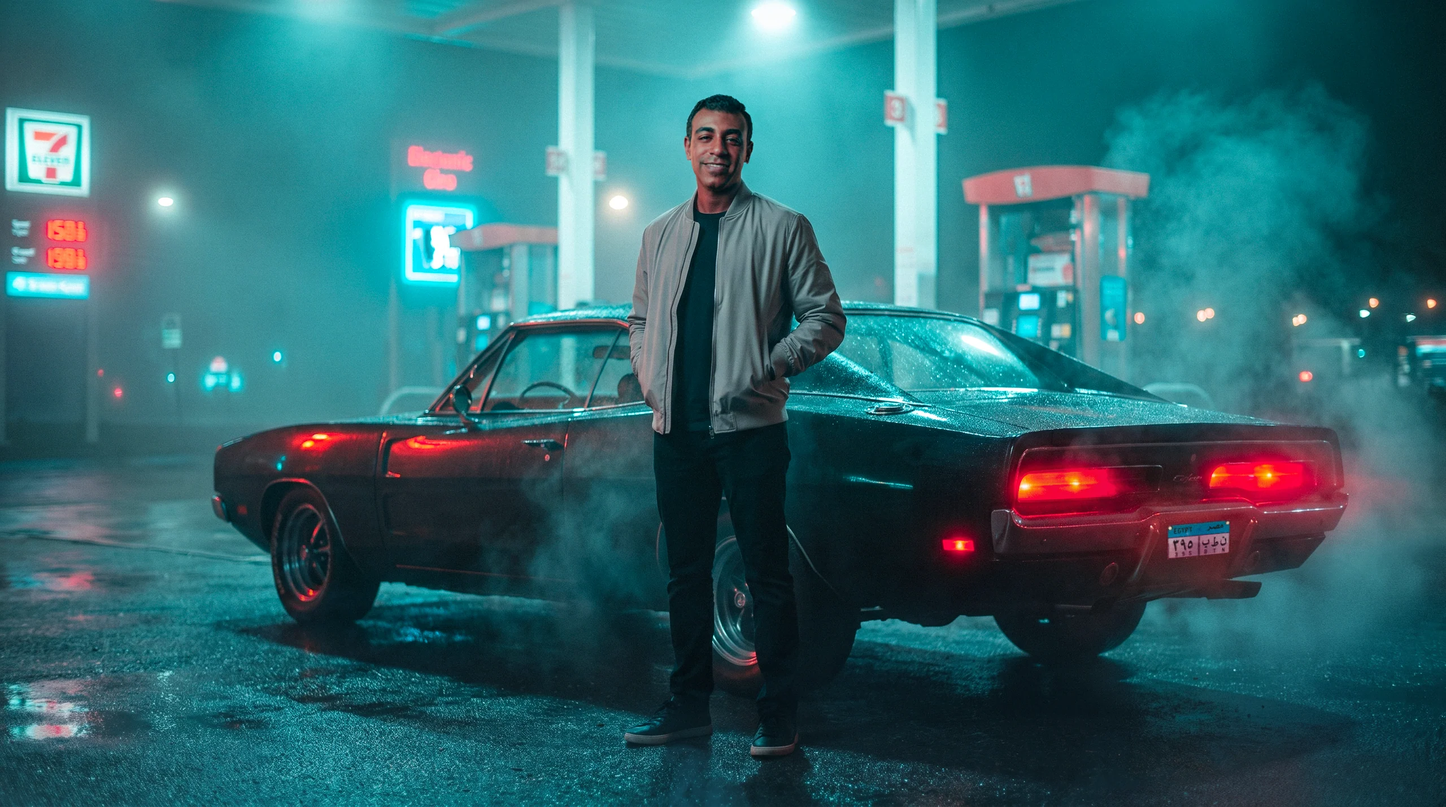
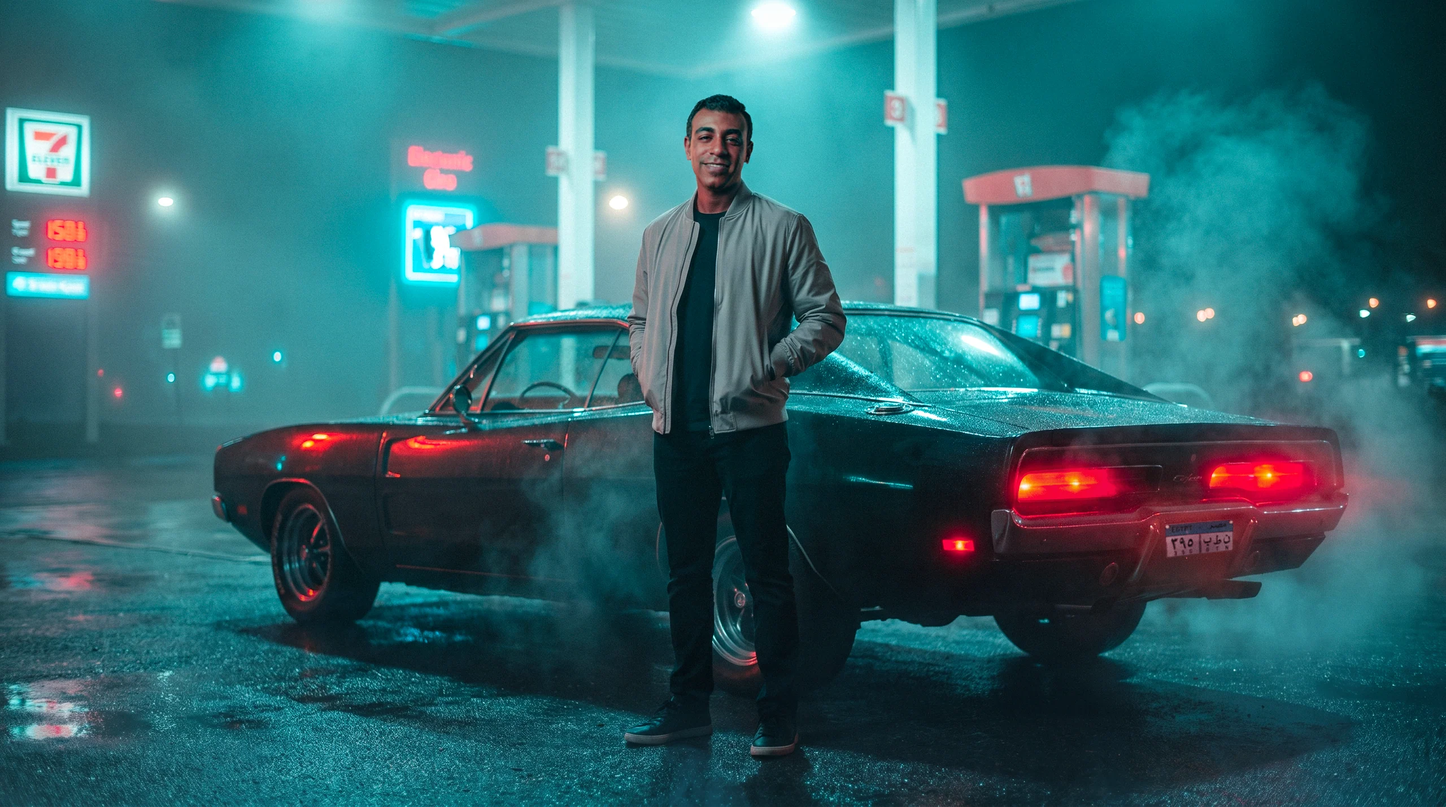
Back to dark only, in cyan and red, blended dynamically
The two accents are taken straight from the photograph the site opens
on: the teal haze of the forecourt and the red of the tail lights.

Picking them was the work. Matched in OKLCH at equal lightness and
chroma they harmonise perfectly and the red lands on salmon (#FB8D85) --
technically a pair, not what anyone means by red. So the red keeps its
saturation and gives up a little lightness instead: cyan #19C8DE at
9.57:1 on the ground, red #FF3B4E at 5.53:1. Neither takes white text,
so filled accent buttons use ink (9.57 and 5.53); the two that used
white have been changed.

Near-complementary is a loud pair by default, so three things hold them
together. The neutrals carry the cyan's cast, so the cyan reads as
native to the page and the red as the accent that pops. The ramp
lightens as it climbs, which is what a raised surface does on a dark
ground -- the inverse of what the light theme needed. And the two are
blended through magenta wherever they meet.

That blend is the dynamic part: .blend-field puts two soft blobs, one
per accent, drifting on different periods and screened over each other,
so the overlap runs through magenta and never sits still. The blobs are
pseudo-elements of one wrapper -- no extra DOM -- and only transform is
animated, so it stays on the compositor and off the main thread. It runs
in the closing CTA, on /contact and in the contact modal, each of which
previously had a single flat blur that never moved. .text-blend runs the
[…]

Changed region(s): [[0.7812, 0.8929, 1.0, 1.0], [0.7812, 0.6466, 0.875, 0.7082], [0.9062, 0.739, 0.9688, 0.8006]]

diff --git a/app/globals.css b/app/globals.css
@@ -2,38 +2,35 @@
 @tailwind components;
 @tailwind utilities;
 
-/* ---- One theme: cool paper, deep cyan, magenta second ----------------------
-   The site used to ship a dark theme as the default and a light one behind a
-   toggle. It is light-only now, so these live on :root with nothing to switch.
+/* ---- One theme: cool near-black, cyan and red ------------------------------
+   Dark only. There is no light theme and no toggle.
 
-   Two things were wrong with the old light values and both are fixed here.
-   The page sat at a glaring near-white, so it is pulled down to a cool paper
-   tone with a cyan cast that ties it to the accent. And --bg2 used to be
-   *lighter* than --bg, which is right for a raised panel on a dark ground and
-   backwards on a light one: every banded section washed out into the page and
-   the sections read as one run-on block. The ramp now darkens as it climbs, so
-   a band is a band.
+   The two accents are the photograph the site opens on: the teal haze of the
+   forecourt and the red of the tail lights. They are near-complementary, which
+   is a loud pair by default, so three things hold them together -- the neutrals
+   carry the cyan's cast so the cyan reads as native and the red as the accent
+   that pops; the ramp lightens as it climbs, which is what a raised surface
+   does on a dark ground; and the two are blended through magenta wherever they
+   meet (see .blend-field and .text-blend below) so the eye reads one system
+   rather than two colours arguing.
 
-   Accents are contrast-checked against --bg: cyan 5.43:1, magenta 5.63:1, and
-   white on either as a filled button is ~6:1. */
+   Measured on --bg: cyan 9.57:1, red 5.53:1. Both take near-black text as a
+   filled button (9.57 and 5.53); neither takes white, so buttons use ink. */
 :root {
-  --bg: 242 245 246;
-  --bg2: 231 237 239;
-  --bg3: 219 227 230;
-  --bg4: 201 212 216;
-  --bg5: 176 190 196;
-  --fg: 13 27 32;
-  --fg2: 45 63 69;
-  --fg3: 92 110 117;
-  --fg4: 116 133 140;
-  --line: 13 27 32;
-  --electric: 183 24 118; /* magenta, the second voice */
-  --mint: 5 110 124; /* deep cyan (primary accent) */
-  /* The accent is tuned to hold against paper, which makes it far too dark to
-     use over a photograph -- and the hero happens to be a teal night shot, so
-     the accent word vanished into it. This is the same hue lifted for type on
-     imagery: 8.6:1 against the darkest part of that frame. */
-  --mint-lift: 116 226 240;
+  --bg: 8 14 18;
+  --bg2: 14 23 28;
+  --bg3: 21 33 40;
+  --bg4: 32 48 57;
+  --bg5: 50 70 81;
+  --fg: 232 241 244;
+  --fg2: 186 203 210;
+  --fg3: 133 154 163;
+  --fg4: 100 120 129;
+  --line: 232 241 244;
+  --electric: 255 59 78; /* red, the second voice */
+  --mint: 25 200 222; /* cyan (primary accent) */
+  /* A touch brighter, for type sitting directly on the photography. */
+  --mint-lift: 86 226 245;
 }
 
 * {
@@ -196,6 +193,64 @@ main > * + * {
 }
 
 @layer utilities {
+  /* The dynamic blend. Two soft blobs -- one cyan, one red -- drifting on
+     different periods and screened over each other, so the overlap runs through
+     magenta and never sits still. Only transform is animated and there are two
+     elements per field, so this stays on the compositor.
+
+     The blobs are pseudo-elements of a single wrapper: no extra DOM, and any
+     section can pick it up by adding the class to a positioned backdrop. */
+  .blend-field {
+    position: absolute;
+    inset: 0;
+    overflow: hidden;
+    pointer-events: none;
+    isolation: isolate;
+  }
+  .blend-field::before,
+  .blend-field::after {
+    content: "";
+    position: absolute;
+    width: 55vw;
+    height: 55vw;
+    max-width: 780px;
+    max-height: 780px;
+    border-radius: 9999px;
+    filter: blur(110px);
+    mix-blend-mode: screen;
+    will-change: transform;
+  }
+  .blend-field::before {
+    left: -12%;
+    top: -22%;
+    background: rgb(var(--mint) / 0.4);
+    animation: driftA 26s ease-in-out infinite alternate;
+  }
+  .blend-field::after {
+    right: -14%;
+    bottom: -26%;
+    background: rgb(var(--electric) / 0.32);
+    animation: driftB 34s ease-in-out infinite alternate;
+  }
+  @media (prefers-reduced-motion: reduce) {
+    .blend-field::before,
+    .blend-field::after {
+      animation: none;
+    }
+  }
+
+  /* The same blend, run through type. */
+  .text-blend {
+    background-image: linear-gradient(
+      100deg,
+      rgb(var(--mint)),
+      rgb(var(--electric))
+    );
+    -webkit-background-clip: text;
+    background-clip: text;
+    color: transparent;
+  }
+
   .text-balance {
     text-wrap: balance;
   }
@@ -211,6 +266,23 @@ main > * + * {
       ),
       linear-gradient(to bottom, rgb(var(--line) / 0.07) 1px, transparent 1px);
     background-size: 56px 56px;
+  }
+}
+
+@keyframes driftA {
+  from {
+    transform: translate3d(0, 0, 0) scale(1);
+  }
+  to {
+    transform: translate3d(22vw, 16vh, 0) scale(1.25);
+  }
+}
+@keyframes driftB {
+  from {
+    transform: translate3d(0, 0, 0) scale(1.15);
+  }
+  to {
+    transform: translate3d(-20vw, -14vh, 0) scale(0.9);
   }
 }
 

diff --git a/components/HireCta.tsx b/components/HireCta.tsx
@@ -15,12 +15,9 @@ export default function HireCta() {
       className="container-edge mx-auto max-w-edge scroll-mt-24 section-y"
     >
       <div className="relative overflow-hidden rounded-3xl border border-line/10 bg-ink-800 px-7 py-16 text-center md:px-16 md:py-24">
-        <div
-          aria-hidden
-          className="pointer-events-none absolute left-1/2 top-0 -z-0 h-[30rem] w-[46rem] -translate-x-1/2 -translate-y-1/2 rounded-full bg-mint/10 blur-[120px]"
-        />
+        <div aria-hidden className="blend-field -z-0 opacity-70" />
 
-        <Reveal>
+        <Reveal className="relative">
           <p className="flex items-center justify-center gap-2 text-xs uppercase tracking-[0.28em] text-bone-400">
             <span className="relative flex h-2 w-2">
               <span className="absolute inline-flex h-full w-full animate-ping rounded-full bg-mint opacity-70" />
@@ -33,7 +30,7 @@ export default function HireCta() {
         <Reveal delay={0.05}>
           <h2 className="mx-auto mt-8 max-w-3xl text-balance text-4xl font-semibold leading-[1.05] tracking-tight text-bone-50 md:text-6xl">
             {t.hire.h2a}{" "}
-            <span className="font-serif font-normal italic text-mint">
+            <span className="text-blend font-serif font-normal italic">
               {t.hire.h2i}
             </span>
             {t.hire.h2b}

diff --git a/components/TypeDesign.tsx b/components/TypeDesign.tsx
@@ -18,9 +18,10 @@ import { useLang } from "@/lib/i18n";
 // white for dark mode, black for light — so the letterforms sit straight on
 // the page with no tile behind them.
 //
-// Only the light cuts are on the page now that the dark theme is gone. The
-// dark cuts stay in the repo because the lightbox opens on a near-black scrim,
-// where the white artwork is the one that reads.
+// The white cuts are what the page shows: dark ground, and the lightbox opens
+// on a near-black scrim, so the same artwork serves both. The black cuts stay in
+// the repo -- 08's was derived from its own artwork rather than supplied, and
+// they cost nothing to keep.
 const pieces = Array.from({ length: 8 }, (_, i) => {
   const id = String(i + 1).padStart(2, "0");
   return {
@@ -56,7 +57,7 @@ function Piece({
       <span className="absolute inset-0 block p-5 sm:p-7">
         <span className="relative block h-full w-full">
           <Media
-            src={piece.light}
+            src={piece.dark}
             alt={`${label} ${index + 1}`}
             fill
             sizes="288px"

diff --git a/components/Recommendations.tsx b/components/Recommendations.tsx
@@ -168,7 +168,7 @@ export default function Recommendations() {
             href={`${site.linkedin}details/recommendations/`}
             target="_blank"
             rel="noopener noreferrer"
-            className="group flex items-center gap-2.5 rounded-full bg-mint px-6 py-3 text-sm font-medium text-white transition-transform duration-300 hover:scale-[1.03]"
+            className="group flex items-center gap-2.5 rounded-full bg-mint px-6 py-3 text-sm font-medium text-ink-900 transition-transform duration-300 hover:scale-[1.03]"
           >
             <svg width="15" height="15" viewBox="0 0 24 24" fill="currentColor" aria-hidden>
               <path d="M4.98 3.5C4.98 4.88 3.87 6 2.5 6S0 4.88 0 3.5 1.12 1 2.5 1s2.48 1.12 2.48 2.5zM.5 8h4V24h-4V8zm7.5 0h3.8v2.2h.05c.53-1 1.83-2.2 3.77-2.2 4.03 0 4.78 2.65 4.78 6.1V24h-4v-8.5c0-2.03-.04-4.64-2.83-4.64-2.83 0-3.27 2.2-3.27 4.5V24H8V8z" />

diff --git a/components/ContactModal.tsx b/components/ContactModal.tsx
@@ -58,10 +58,7 @@ export default function ContactModal() {
             className="relative max-h-[92svh] w-full max-w-lg overflow-y-auto rounded-t-3xl border border-line/12 bg-ink-800 p-7 shadow-[0_30px_120px_-30px_rgb(var(--fg)/0.35)] sm:rounded-3xl md:p-9"
           >
             {/* soft glow behind the glass */}
-            <div
-              aria-hidden
-              className="pointer-events-none absolute -top-24 left-1/2 h-56 w-[28rem] -translate-x-1/2 rounded-full bg-mint/15 blur-[90px]"
-            />
+            <div aria-hidden className="blend-field opacity-45" />
 
             <div className="relative flex items-start justify-between gap-4">
               <div>

diff --git a/components/Clients.tsx b/components/Clients.tsx
@@ -46,7 +46,7 @@ export default function Clients() {
               <div className="group grid aspect-[3/2] place-items-center bg-ink-900 p-4 transition-colors duration-300 hover:bg-ink-800">
                 <div className="relative h-full w-full opacity-70 transition-opacity duration-300 group-hover:opacity-100">
                   <Media
-                    src={`/logos/light/${n}.webp`}
+                    src={`/logos/dark/${n}.webp`}
                     alt="Client logo"
                     fill
                     sizes="140px"

diff --git a/components/Contact.tsx b/components/Contact.tsx
@@ -14,9 +14,7 @@ export default function Contact() {
       id="contact"
       className="relative scroll-mt-24 overflow-hidden pb-[4.5rem] pt-32 md:pb-28 md:pt-44"
     >
-      <div className="pointer-events-none absolute inset-0 -z-10">
-        <div className="absolute bottom-[-30%] left-1/2 h-[50vw] w-[50vw] -translate-x-1/2 rounded-full bg-electric/10 blur-[140px]" />
-      </div>
+      <div aria-hidden className="blend-field -z-10 opacity-60" />
 
       <div className="container-edge mx-auto max-w-edge">
         <Reveal>

diff --git a/lib/dict.ts b/lib/dict.ts
@@ -78,7 +78,7 @@ const en = {
     pick: "Pick a production",
   },
   master: {
-    label: "Master Visuals",
+    label: "Key Visuals",
     h2a: "The campaign boards, and the",
     h2i: "thinking",
     h2b: " behind them.",
@@ -641,7 +641,7 @@ const ar: typeof en = {
     pick: "اختر إنتاجًا",
   },
   master: {
-    label: "الفيجوالز الرئيسية",
+    label: "الصور الرئيسية",
     h2a: "لوحات الحملات، و",
     h2i: "الفكرة",
     h2b: " اللي وراها.",

diff --git a/components/SocialCards.tsx b/components/SocialCards.tsx
@@ -64,9 +64,6 @@ function Card({ p }: { p: Project }) {
             sizes="(max-width: 640px) 92vw, (max-width: 1024px) 46vw, 31vw"
             className="object-cover transition-transform duration-700 ease-cinema group-hover:scale-[1.04]"
           />
-          <span className="absolute left-4 top-4 rounded-full bg-black/45 px-3 py-1 text-[11px] uppercase tracking-widest text-white backdrop-blur-md">
-            {t.socialCards.keyVisual}
-          </span>
         </div>
       </Link>
 

diff --git a/components/Hero.tsx b/components/Hero.tsx
@@ -128,7 +128,7 @@ export default function Hero() {
             <Magnetic>
               <a
                 href="#work"
-                className="group flex items-center gap-3 rounded-full bg-mint px-6 py-3 text-sm font-medium text-white transition-colors"
+                className="group flex items-center gap-3 rounded-full bg-mint px-6 py-3 text-sm font-medium text-ink-900 transition-colors"
               >
                 {t.hero.ctaPrimary}
                 <motion.span

diff --git a/components/LogoMarquee.tsx b/components/LogoMarquee.tsx
@@ -22,7 +22,7 @@ export default function LogoMarquee() {
             className="relative block h-14 w-36 shrink-0 opacity-75 transition-opacity duration-300 hover:opacity-100"
           >
             <Media
-              src={`/logos/light/${n}.webp`}
+              src={`/logos/dark/${n}.webp`}
               alt="Client logo"
               fill
               sizes="144px"

diff --git a/app/layout.tsx b/app/layout.tsx
@@ -42,7 +42,7 @@ const arabic = Alexandria({
 });
 
 export const viewport: Viewport = {
-  themeColor: "#F2F5F6",
+  themeColor: "#080E12",
   width: "device-width",
   initialScale: 1,
 };
